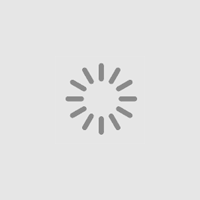
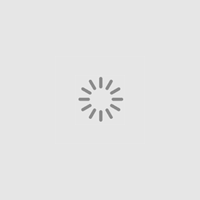
fix(previewItem,rankList): 更改展示逻辑及占位图片

Changed region(s): [[0.33, 0.3, 0.69, 0.69]]

diff --git a/src/views/find/rank-list.vue b/src/views/find/rank-list.vue
@@ -11,7 +11,12 @@
         <template v-if="main.tracks">
           <el-row justify="space-between" class="main-toplist">
             <el-col :xs="0" :sm="0" :md="3" :lg="3">
-              <PreviewItem :info="main" :show="['playIcon', 'playCount', 'mask']" :iconPosition="['42%', '42%']" />
+              <PreviewItem
+                :info="main"
+                :show="['playIcon', 'mask']"
+                :iconPosition="['42%', '42%']"
+                :path="'/playlist-detail/' + main.id"
+              />
             </el-col>
             <el-col :xs="24" :sm="24" :md="20" :lg="20">
               <!-- 小于1200显示 -->
@@ -65,7 +70,7 @@
       </el-row>
       <el-row v-for="(other, index) in handlerList" :key="index">
         <el-col :span="listSpan" v-for="(item, index) in other" :key="item.id" :offset="index > 0 ? listOffset : 0">
-          <PreviewItem :info="item" :iconPosition="['42%', '42%']" :key="index" />
+          <PreviewItem :info="item" :iconPosition="['42%', '42%']" :key="index" :path="'/playlist-detail/' + item.id" />
         </el-col>
       </el-row>
     </template>
@@ -129,7 +134,7 @@ export default {
   methods: {
     async getToplist() {
       const res = await getToplist();
-      const toReserve = ["id", "name", "description", "coverImgUrl", "updateTime", "ToplistType"];
+      const toReserve = ["id", "name", "description", "coverImgUrl", "updateTime", "ToplistType", "playCount"];
       let { list = [] } = res?.data || {};
       // 格式化数据
       await list

diff --git a/src/components/preview-item/index.vue b/src/components/preview-item/index.vue
@@ -68,15 +68,7 @@ export default {
     }
   },
   created() {},
-  mounted() {},
-  watch: {
-    $clientWidth: {
-      handler(val) {
-        console.log(val);
-      },
-      immediate: true.value
-    }
-  }
+  mounted() {}
 };
 </script>
 
